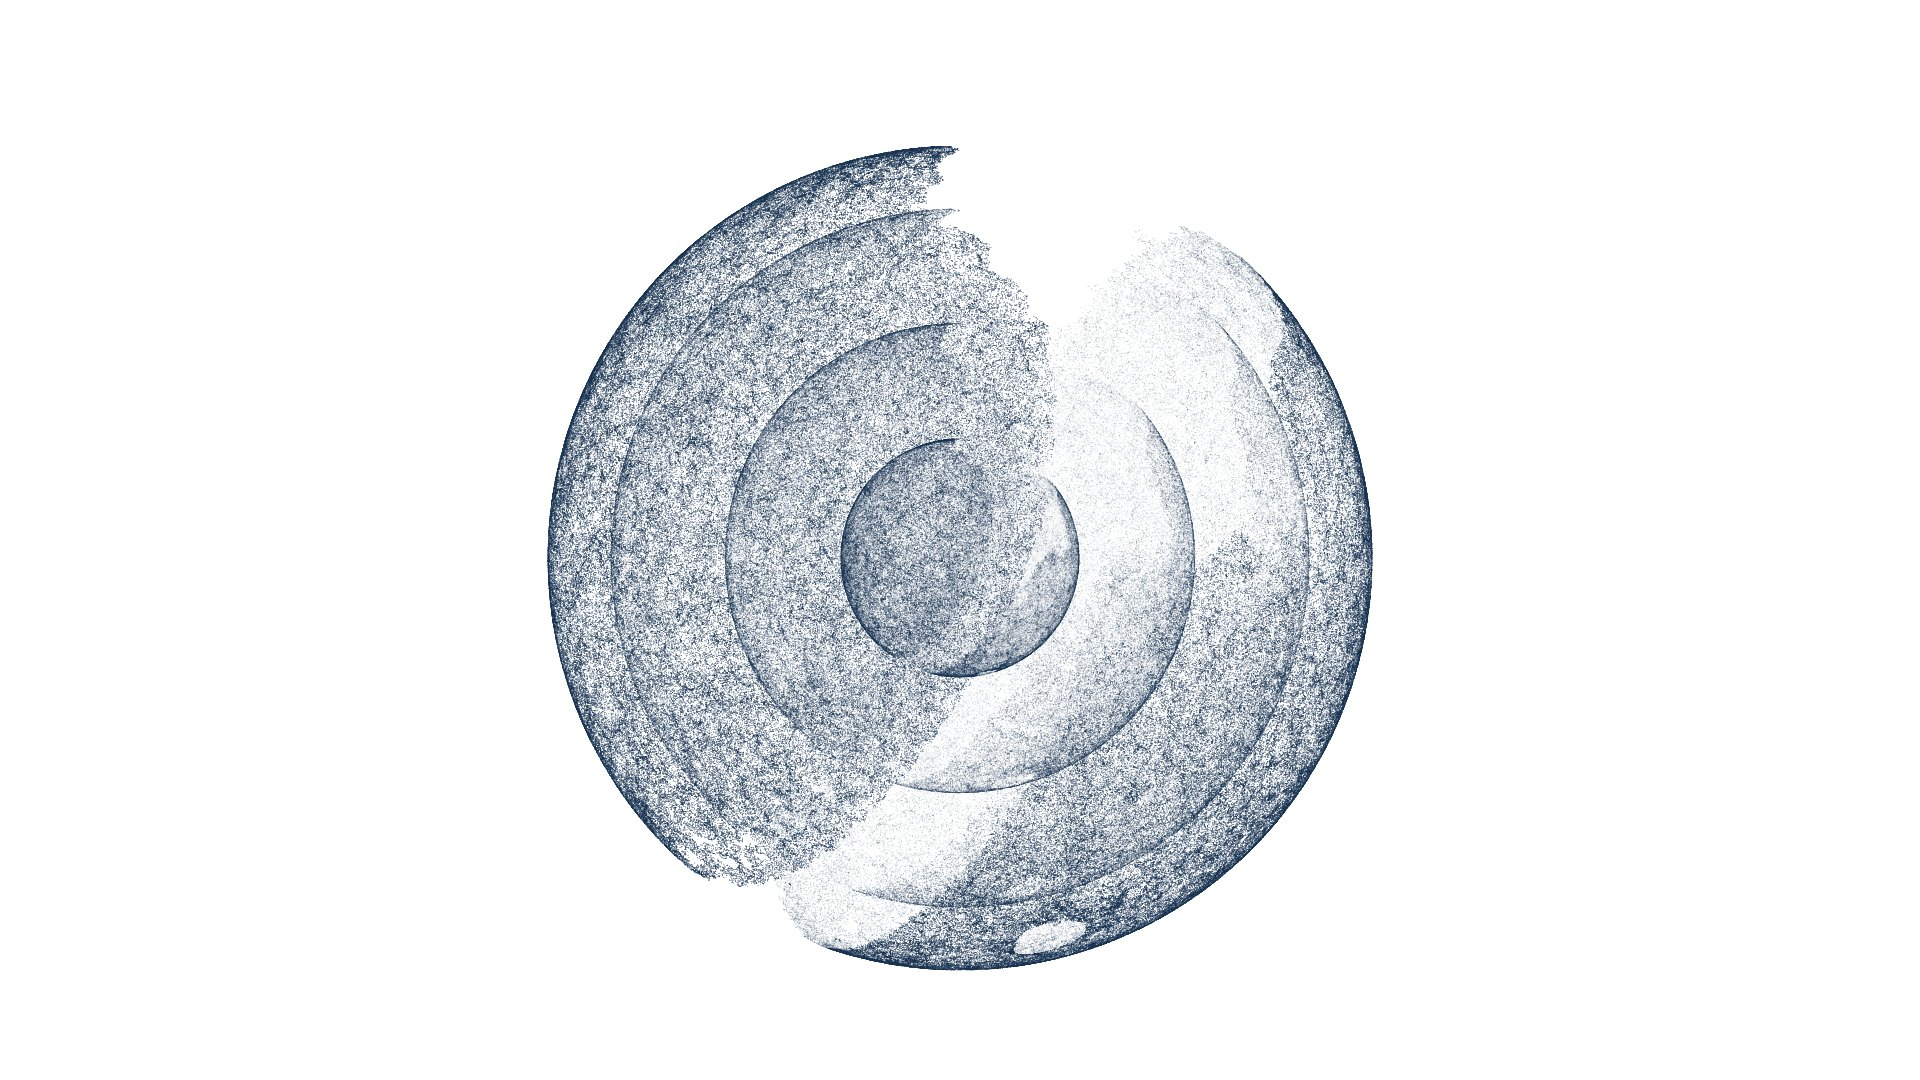
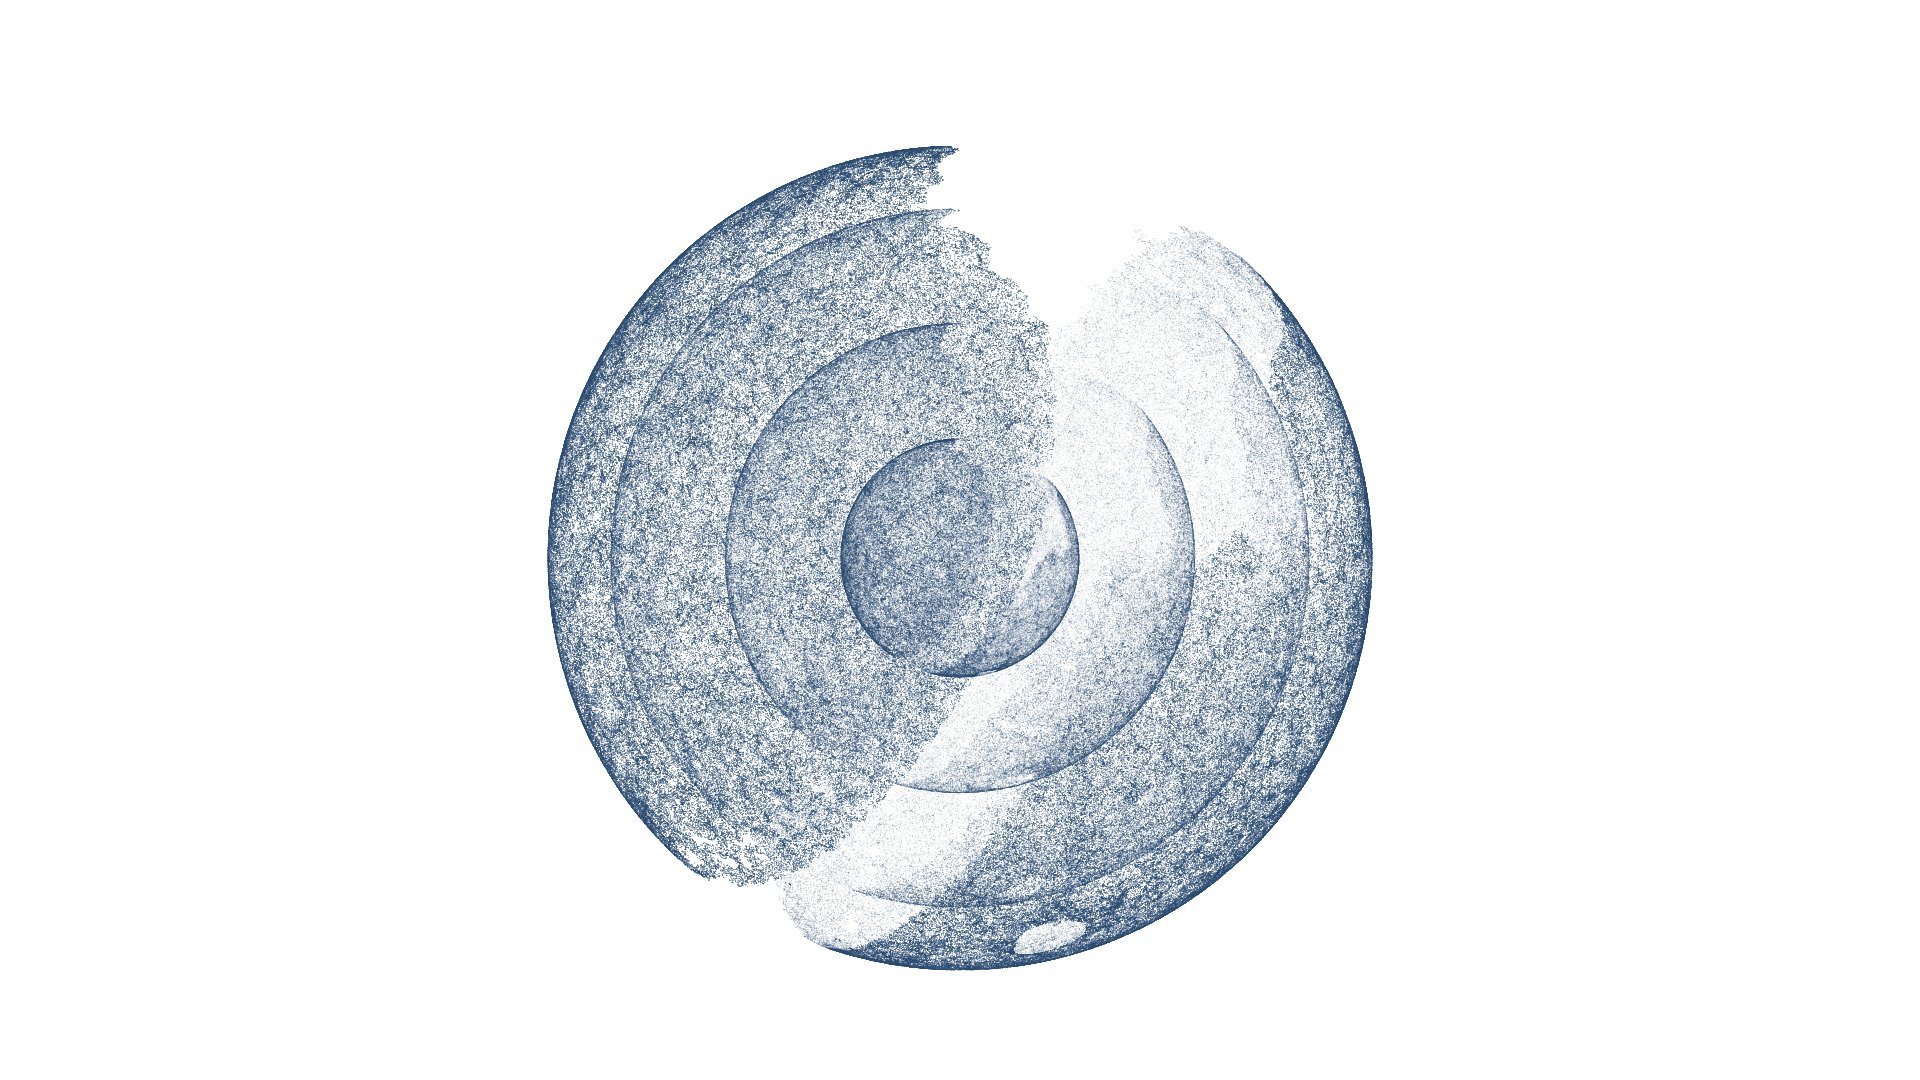
Home shells: the paler navy (#2b4a70 at 0.85) in place of the film's navy at 0.7
Claude-Session: https://claude.ai/code/session_01LSxZt8axAKSubUcaFRvyLG

diff --git a/shells.js b/shells.js
@@ -13,9 +13,9 @@
   // the film's frame, in its own units: 1280 wide, the camera 3.3 sky radii out with a focal length of 900, the
   // centre at (640, 372); each galaxy a dot 1.1 wide
   const W = 1280, D = 3.3, F = 900, CX = 640, CY = 372, DOT = 1.1;
-  // the ink, the film's navy, one per shell from the innermost out; PALE is how strongly each is laid down (thinner
-  // than the film's 1, so more paper shows through), NEAR how strongly the near half of each shell shows
-  const INKS = ['#16304f', '#16304f', '#16304f', '#16304f'], PALE = [0.7, 0.7, 0.7, 0.7], NEAR = 0.3;
+  // the ink, a paler navy than the film's (#16304f), one per shell from the innermost out; PALE is how strongly each
+  // is laid down, NEAR how strongly the near half of each shell shows
+  const INKS = ['#2b4a70', '#2b4a70', '#2b4a70', '#2b4a70'], PALE = [0.85, 0.85, 0.85, 0.85], NEAR = 0.3;
   const rgb = (h) => [1, 3, 5].map((i) => parseInt(h.slice(i, i + 2), 16) / 255);
   const SPIN = 10 * Math.PI / 180;   // the film's turn, 10 degrees a second
 

diff --git a/README.md b/README.md
@@ -39,14 +39,14 @@ shell centred on 0.355) can be dragged round on its own. Each turns on the sky's
 turns the shell under the pointer (the smallest whose disc holds it, so each is taken by its own ring), a throw
 carries on and dies away over about a second, and the shell's own turn comes back. With reduced motion nothing
 turns unasked and a shell stops where it is let go. On a touch screen a touch that lands on the sphere turns it and
-anywhere else scrolls the page. The ink is the film's navy, `#16304f`, laid down at 0.7 of the film's strength so more paper shows through (`INKS`, one per shell, and `PALE` at the top of `shells.js`).
+anywhere else scrolls the page. The ink is a paler navy than the film's, `#2b4a70` at 0.85 in place of `#16304f` at 1 (`INKS`, one per shell, and `PALE` at the top of `shells.js`).
 
 `tools/prep_shells.mjs <film folder>` makes `shells.bin` from the film's `data/`: the same points and weights the
 film's `cloud.js` draws once drawn back (every third galaxy of LSx v0.92's quality sample, the near galaxies and the
 night sky's first shell; a galaxy counts towards a shell with the weight of the film's soft band round its radius),
 kept at random in proportion to that weight, 120,000 in each inner shell and 400,000 in the outer, out of 3.6 million.
 The file stores each shell's total ink, and `shells.js` shares it among the points it draws, so each shell keeps the
-film's balance of darkness (then thinned by `PALE`). The camera, framing and dot size are the film's. `shells_poster.jpg` is the first live
+film's balance of darkness (then scaled by `PALE`). The camera, framing and dot size are the film's. `shells_poster.jpg` is the first live
 frame on white, shown before the points arrive and wherever WebGL is missing. The films above, `spheres.mp4` and
 `spheres_loop.mp4` with their small cuts and posters, are no longer on any page.
 
